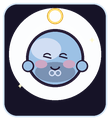
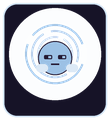
feat: 14정령 최종 캐릭터 디자인 — 캐논 컨셉별 고유 실루엣
'요소가 겹쳐보인다'는 피드백 반영 — 요정 리컬러를 폐기하고 각 정령을
캐논 designConcept 그대로 서로 다른 실루엣·모티프로 재작화:
- 루멘: 응원봉 빛구체 / 새록: 로딩스피너 후광+웅크림+로딩바 눈
- 빗장: 세로 관문+뒤틀린 보안문자+붉은 X / 울림: 이퀄라이저 바+물결
- 셈이: 正자 장부+커서 심장+다크서클 / 폴린: 자유낙하 유선형+심장빛
- 픽: 겹친 홀로그램 카드+봉투 / 영수: 감열지 리본+가격표 눈
- 찰나: 렌즈 머리+REC / 디원: 모래시계+플립 숫자판+D-1
- 네시: 이불 고치+폰빛 / 여백: 반투명+접힌 의자 / 습작: 미완성 스케치선
- 잔불: 재 담요+주황 불씨+감싼 손
gen_portraits.py에 정령별 절차 드로잉 함수 추가.

검증: 14 버스트 로드 확인, 세계 대사 렌더 정상, 오류 0.

Claude-Session: https://claude.ai/code/session_0112YYAr7MRb6U4X3aSsrdpR

Changed region(s): [[0.1909, 0.05, 0.8182, 0.75], [0.1636, 0.7, 0.2182, 0.75], [0.8182, 0.3, 0.8455, 0.35]]

diff --git a/tools/gen_portraits.py b/tools/gen_portraits.py
@@ -144,6 +144,179 @@ def antagonist_monopolist():
     circ(d,42,44,3.2,fill=RED); circ(d,68,44,3.2,fill=RED)
     return im
 
+# ══════════════════════════════════════════════════════════════════
+# 14정령 최종 디자인 — 캐논 designConcept 반영, 실루엣·모티프를 서로 겹치지 않게.
+# 각 함수는 110×120 프레임 버스트를 반환. 상단 2/3에 피사체(하단은 대사창).
+# ══════════════════════════════════════════════════════════════════
+def _mouth(d, cx, cy, w, kind='smile'):
+    if kind=='smile': d.arc([S(cx-w),S(cy-w*0.7),S(cx+w),S(cy+w*0.9)],15,165,fill=INK,width=S(1.7))
+    elif kind=='flat': d.line([(S(cx-w),S(cy)),(S(cx+w),S(cy))],fill=INK,width=S(1.6))
+    elif kind=='open': d.ellipse([S(cx-w*0.6),S(cy-w*0.5),S(cx+w*0.6),S(cy+w*0.9)],fill=INK)
+    elif kind=='frown': d.arc([S(cx-w),S(cy+w*0.5),S(cx+w),S(cy+w*1.5)],195,345,fill=INK,width=S(1.6))
+
+def spirit_lumen():  # 루멘 — 응원봉에 처음 불을 켠 빛(가이드). 밝은 빛구체 + 응원봉.
+    base=LIGHT; im,d=canvas(); frame(d,base)
+    glow(d,55,52,38,LIGHT)
+    circ(d,55,55,25,fill=mix(base,WHITE,0.35)); circ(d,55,55,25,outline=GOLD_D,ow=1.4)
+    ell(d,47,47,11,8,fill=WHITE)
+    d.line([(S(80),S(94)),(S(86),S(48))],fill=GOLD,width=S(2.4)); glow(d,86,44,11,LIGHT); star(d,86,43,6,2.4,5,fill=LIGHT,outline=GOLD_D)
+    eyes(d,48,62,53,'excited'); _mouth(d,55,62,5,'smile')
+    ell(d,43,59,5,3,fill=hx(0xff9db0)); ell(d,67,59,5,3,fill=hx(0xff9db0))
+    return im
+
+def spirit_saerok():  # 새록 — 로딩스피너 후광 겹침 + 웅크림 + 눈=로딩바 + F5 잔상 팔.
+    base=hx(0x9cc1e5); im,d=canvas(); frame(d,base)
+    for k,rr in enumerate((30,24,18)):  # 여러 겹 스피너 링(끊긴 호)
+        col=mix(base,WHITE,0.1+0.2*k)
+        d.arc([S(55-rr),S(54-rr),S(55+rr),S(54+rr)], 20+k*40, 200+k*40, fill=col, width=S(2.2))
+        d.arc([S(55-rr),S(54-rr),S(55+rr),S(54+rr)], 220+k*40, 340+k*40, fill=col, width=S(2.2))
+    circ(d,55,58,17,fill=base); circ(d,55,58,17,outline=INK,ow=1.2)  # 웅크린 몸
+    for ax in (40,70):  # F5 잔상 팔(반투명 겹침)
+        for j in range(3): circ(d,ax+j*2,68,4,fill=(base[0],base[1],base[2],90))
+    # 눈=차오르는 로딩바
+    for ex in (48,62):
+        box(d,ex-4,55,ex+4,59,1,outline=INK,ow=1); d.rectangle([S(ex-3),S(56),S(ex+0),S(58)],fill=INK)
+    _mouth(d,55,64,4,'flat')
+    return im
+
+def spirit_bitjang():  # 빗장 — 세로 문(門) + 얼굴=뒤틀린 보안문자 + 붉은 X 도장 + 개찰구 격자.
+    base=hx(0xff5d73); im,d=canvas(); frame(d,base)
+    box(d,36,30,74,98,3,fill=mix(base,INK,0.4),outline=base,ow=2)  # 문틀
+    d.line([(S(55),S(30)),(S(55),S(98))],fill=base,width=S(1.4))   # 여닫이 경계
+    for gy in range(40,92,10): d.line([(S(38),S(gy)),(S(72),S(gy))],fill=(base[0],base[1],base[2],90),width=S(1))  # 개찰구 격자
+    # 얼굴 칸 — 뒤틀린 보안문자(찌그러진 글리프)
+    box(d,42,44,68,64,2,fill=hx(0x1a0a10))
+    for i,gx in enumerate((46,53,60)):
+        d.line([(S(gx),S(48+((i*3)%4))),(S(gx+3),S(60-((i*2)%4)))],fill=mix(base,WHITE,0.5),width=S(1.4))
+        d.arc([S(gx-2),S(50),S(gx+3),S(58)],30,300,fill=mix(base,WHITE,0.4),width=S(1))
+    # 붉은 X 도장
+    d.line([(S(62),S(70)),(S(74),S(82))],fill=RED,width=S(2.4)); d.line([(S(74),S(70)),(S(62),S(82))],fill=RED,width=S(2.4))
+    return im
+
+def spirit_ulrim():  # 울림 — 이퀄라이저 세로바 몸 + 물결 번짐(윤곽선 없음).
+    base=hx(0x8fdcc2); im,d=canvas(); frame(d,base)
+    heights=[10,20,32,24,38,22,14]
+    for i,h in enumerate(heights):
+        x=32+i*6.5; col=mix(base,WHITE,0.1+0.1*(i%3))
+        box(d,x,70-h,x+4,72,1.5,fill=col)
+    for rr in (16,24,32):  # 물수제비 파문
+        d.ellipse([S(55-rr),S(60-rr*0.5),S(55+rr),S(60+rr*0.5)],outline=(base[0],base[1],base[2],70),width=S(1))
+    circ(d,48,44,3,fill=INK); circ(d,62,44,3,fill=INK)  # 눈(작게 떠 있음)
+    d.arc([S(50),S(48),S(60),S(55)],20,160,fill=INK,width=S(1.4))
+    return im
+
+def spirit_semi():  # 셈이 — 正자 격자 장부 몸 + 심장=깜빡 커서 + 다크서클 + 굽은 등.
+    base=hx(0xc9b8e8); im,d=canvas(); frame(d,base)
+    box(d,36,34,74,92,4,fill=mix(base,INK,0.25),outline=base,ow=1.5)  # 장부 몸
+    for r in range(4):  # 正자 바(정자 흘려)
+        y=42+r*12
+        for c in range(3):
+            x=42+c*10; d.line([(S(x),S(y)),(S(x),S(y+7))],fill=mix(base,WHITE,0.4),width=S(1)); d.line([(S(x-2),S(y+7)),(S(x+2),S(y+7))],fill=mix(base,WHITE,0.4),width=S(1))
+    box(d,50,58,60,66,1,fill=INK)  # 커서 심장(깜빡)
+    for ex in (46,64): circ(d,ex,46,2.6,fill=INK); ell(d,ex,50,4,2,fill=mix(base,hx(0x6a7fd6),0.5))  # 눈+다크서클
+    _mouth(d,55,52,3,'flat')
+    return im
+
+def spirit_pollin():  # 폴린 — 자유낙하 유선형 + 머리카락 위로 흩날림 + 심장빛 + 눈빛줄기.
+    base=hx(0xff8fa3); im,d=canvas(); frame(d,base)
+    d.polygon([(S(55),S(30)),(S(42),S(60)),(S(55),S(96)),(S(68),S(60))],fill=base,outline=mix(base,INK,0.3))  # 낙하 유선형 몸
+    for hx0 in (44,50,55,60,66):  # 위로 솟은 머리카락
+        d.line([(S(hx0),S(38)),(S(hx0+((hx0-55)//3)),S(24))],fill=mix(base,WHITE,0.4),width=S(1.6))
+    glow(d,55,58,12,hx(0xffd1dc)); circ(d,55,58,5,fill=WHITE)  # 심장빛
+    for ex in (49,61):  # 눈 + 빛줄기
+        circ(d,ex,50,2.4,fill=WHITE); d.line([(S(ex),S(50)),(S(ex+(ex-55)//2),S(44))],fill=(255,255,255,120),width=S(1.4))
+    return im
+
+def spirit_pick():  # 픽 — 겹친 홀로그램 카드 몸 + 안 뜯은 봉투 + 각진 실루엣.
+    base=hx(0x9a8fd6); im,d=canvas(); frame(d,base)
+    for k,(ox,oy) in enumerate(((-8,-6),(0,0),(8,6))):  # 겹친 카드 3장
+        col=mix(base,WHITE,0.15*k)
+        box(d,42+ox,36+oy,68+ox,80+oy,3,fill=col,outline=mix(base,WHITE,0.5),ow=1)
+        d.line([(S(44+ox),S(40+oy)),(S(66+ox),S(74+oy))],fill=(255,255,255,70),width=S(1))  # 홀로 사선
+    box(d,30,66,44,86,2,fill=mix(base,INK,0.3),outline=base,ow=1)  # 안 뜯은 봉투
+    circ(d,52,52,2.6,fill=INK); circ(d,60,55,2.6,fill=INK)  # 각도마다 갈리는 눈(어긋나게)
+    return im
+
+def spirit_yeongsu():  # 영수 — 감열지 리본 몸(하반신 종이) + 눈=빨간 가격표 + 다 긁은 카드.
+    base=hx(0xffd66b); im,d=canvas(); frame(d,base)
+    box(d,42,32,68,60,3,fill=mix(base,WHITE,0.2),outline=mix(base,INK,0.3),ow=1.5)  # 상체(프린터 헤드)
+    # 말려 나오는 감열지 리본(하반신)
+    pts=[(46,60),(44,72),(52,80),(48,92),(58,96),(64,84),(60,72),(66,64)]
+    d.polygon([ (S(x),S(y)) for x,y in pts ], fill=mix(base,WHITE,0.35), outline=mix(base,INK,0.2))
+    for ry in range(64,94,6): d.line([(S(46),S(ry)),(S(64),S(ry))],fill=(base[0],base[1],base[2],70),width=S(1))  # 인쇄줄
+    for ex in (48,62): box(d,ex-4,44,ex+4,50,1,fill=RED); d.line([(S(ex-3),S(47)),(S(ex+3),S(47))],fill=WHITE,width=S(1))  # 빨간 가격표 눈
+    box(d,30,66,42,74,1,fill=mix(base,INK,0.4))  # 다 긁은 카드
+    return im
+
+def spirit_chalna():  # 찰나 — 카메라/렌즈 머리 + 버퍼링 깜빡 몸 + REC 빨간 점 + 프레임 잔상.
+    base=hx(0xff8a5d); im,d=canvas(); frame(d,base)
+    for j in range(3): box(d,40+j*2,58,72+j*2,92,4,fill=(base[0],base[1],base[2],80))  # 프레임 잔상 몸
+    box(d,40,58,72,92,4,fill=base,outline=mix(base,INK,0.3),ow=1.5)
+    circ(d,55,48,16,fill=hx(0x241a33),outline=base,ow=2)  # 렌즈 머리
+    circ(d,55,48,10,fill=mix(base,INK,0.5)); circ(d,55,48,5,fill=mix(base,WHITE,0.3)); circ(d,51,44,2,fill=WHITE)
+    circ(d,66,36,3,fill=RED); glow(d,66,36,6,RED)  # REC 점
+    for bx in range(46,66,6): d.line([(S(bx),S(70)),(S(bx),S(84))],fill=(255,255,255,60),width=S(2))  # 버퍼링 바
+    return im
+
+def spirit_diwon():  # 디원 — 플립 숫자판 몸 + D-1 배지 + 모래시계 세로 실루엣.
+    base=hx(0xf0c98a); im,d=canvas(); frame(d,base)
+    d.polygon([(S(40),S(32)),(S(70),S(32)),(S(58),S(60)),(S(70),S(90)),(S(40),S(90)),(S(52),S(60))],fill=base,outline=mix(base,INK,0.3))  # 모래시계 실루엣
+    for fy in (40,50,70,80):  # 플립 숫자판 칸
+        box(d,46,fy,64,fy+7,1,fill=mix(base,INK,0.25),outline=mix(base,WHITE,0.4),ow=1)
+        d.line([(S(46),S(fy+3.5)),(S(64),S(fy+3.5))],fill=INK,width=S(1))
+    box(d,44,62,66,72,2,fill=RED)  # D-1 배지
+    d.line([(S(47),S(67)),(S(51),S(67))],fill=WHITE,width=S(1.6))  # 'D'
+    d.arc([S(47),S(64),S(52),S(70)],270,90,fill=WHITE,width=S(1.4))
+    d.line([(S(55),S(67)),(S(58),S(67))],fill=WHITE,width=S(1.4))  # '-'
+    d.line([(S(61),S(64)),(S(61),S(70)),(S(63),S(70))],fill=WHITE,width=S(1.4))  # '1'
+    circ(d,50,45,2,fill=INK); circ(d,60,45,2,fill=INK)
+    return im
+
+def spirit_nesi():  # 네시 — 이불 고치 둥근 실루엣 + 폰빛 얼굴(유일 광원) + 4:44 + 다크서클.
+    base=hx(0x6a7fd6); im,d=canvas(); frame(d,base)
+    circ(d,55,60,30,fill=mix(base,INK,0.35),outline=base,ow=1.5)  # 이불 고치(둥글게)
+    circ(d,55,60,30,outline=(base[0],base[1],base[2],80),ow=3)
+    box(d,46,50,64,68,3,fill=hx(0x1a2036))  # 얼굴 그늘
+    glow(d,55,58,12,hx(0xbfe0ff)); box(d,50,54,60,64,1,fill=hx(0xbfe0ff))  # 폰빛(유일 광원)
+    for ex in (51,59): d.line([(S(ex-2),S(58)),(S(ex+2),S(58))],fill=INK,width=S(1.4)); ell(d,ex,61,3,1.6,fill=mix(base,INK,0.4))  # 감은 눈+다크서클
+    # 떠다니는 '4:44' — 안 넘어가는 시각(작은 도형으로)
+    for i,fx in enumerate((72,78,84)):
+        d.line([(S(fx),S(38)),(S(fx),S(43))],fill=mix(base,WHITE,0.5),width=S(1.2))
+    circ(d,75,42,0.8,fill=mix(base,WHITE,0.5))
+    return im
+
+def spirit_yeobaek():  # 여백 — 반투명(속 비침) + 접힌 객석 의자 어깨 + 빈 장갑 + 바랜 파스텔.
+    base=hx(0xbca9e0); im,d=canvas(); frame(d,base)
+    faded=mix(base,PANEL,0.35)
+    d.polygon([(S(42),S(40)),(S(68),S(40)),(S(72),S(92)),(S(38),S(92))],fill=(faded[0],faded[1],faded[2],150),outline=base)  # 반투명 몸
+    box(d,44,36,52,54,2,fill=(base[0],base[1],base[2],120))  # 접히는 의자 어깨(좌)
+    box(d,58,36,66,54,2,fill=(base[0],base[1],base[2],120))
+    d.line([(S(55),S(50)),(S(55),S(90))],fill=(base[0],base[1],base[2],80),width=S(1))  # 속 비침 경계
+    box(d,30,70,40,82,3,outline=base,ow=1.4)  # 빈 장갑 한 짝(윤곽만)
+    for ex in (49,61): d.arc([S(ex-3),S(50),S(ex+3),S(56)],185,355,fill=INK,width=S(1.4))  # 잔잔한 눈
+    return im
+
+def spirit_seupjak():  # 습작 — 미완성 스케치(겹친 선+지우개 자국) + 덜 마른 잉크 손 + 남색/살구.
+    base=hx(0x8fb0f0); apr=hx(0xf6c9a0); im,d=canvas(); frame(d,base)
+    # 겹친 밑그림 선(실루엣이 흔들림)
+    for off in (-3,0,3):
+        d.line([(S(46+off),S(36)),(S(42+off),S(70)),(S(52+off),S(92))],fill=(base[0],base[1],base[2],120 if off else 220),width=S(1.6),joint='curve')
+        d.line([(S(64+off),S(36)),(S(68+off),S(70)),(S(58+off),S(92))],fill=(base[0],base[1],base[2],120 if off else 220),width=S(1.6),joint='curve')
+    d.arc([S(42),S(38),S(68),S(64)],200,340,fill=base,width=S(1.6))  # 머리 윤곽(미완)
+    for ex in (50,60): d.line([(S(ex-3),S(52)),(S(ex+3),S(52))],fill=INK,width=S(1.4))  # 눈=아직 선 (특히 눈이 안 됨)
+    d.ellipse([S(60),S(78),S(70),S(88)],fill=(apr[0],apr[1],apr[2],150))  # 덜 마른 잉크 손(번짐)
+    for gx,gy in ((40,44),(72,66),(44,84)): circ(d,gx,gy,1.2,fill=(base[0],base[1],base[2],120))  # 지우개 가루
+    return im
+
+def spirit_janbul():  # 잔불 — 재 뒤집어쓴 실루엣 + 주황 불씨 한 점 + 담요 + 감싼 손.
+    base=hx(0xffb07a); ash=hx(0x6b6470); im,d=canvas(); frame(d,base)
+    d.polygon([(S(55),S(34)),(S(36),S(58)),(S(40),S(92)),(S(70),S(92)),(S(74),S(58))],fill=ash,outline=mix(ash,INK,0.3))  # 재 담요 실루엣
+    for sx,sy in ((44,50),(66,54),(50,74),(64,80)): circ(d,sx,sy,1.4,fill=mix(ash,WHITE,0.3))  # 재 얼룩
+    glow(d,55,66,14,base); circ(d,55,66,6,fill=base); circ(d,55,66,3,fill=hx(0xfff2c9))  # 불씨 한 점
+    for ax in (44,66): d.arc([S(ax-6),S(62),S(ax+6),S(76)],250,470,fill=ash,width=S(2.4))  # 감싼 두 손
+    for ex in (49,61): circ(d,ex,50,2,fill=mix(base,WHITE,0.3))  # 재 속 눈(은은)
+    return im
+
 def player():
     im,d=canvas(); frame(d, hx(0xf1c7d2))
     HOOD=hx(0x35304f); HOODD=hx(0x24203a); FACE=hx(0x2a2438)
@@ -161,23 +334,22 @@ def player():
 def out(im,name): im.resize((W,H),Image.LANCZOS).save(os.path.join(OUT,name+'.png'))
 
 def main():
-    # 14정령 v2 — 루멘(가이드, id 'bongi') + 팬덤 경험 정령 13. 색·왕관·엠블럼·표정으로 구별.
-    # (임시 플레이스홀더 버스트: 캐논의 상세 디자인 컨셉[로딩 스피너/관문/이퀄라이저 등]은 후속 아트 과제.)
+    # 14정령 최종 디자인 — 캐논 designConcept 반영, 실루엣·모티프 서로 겹치지 않게.
     guards={
-        'pt_g_bongi':    fairy(0xfdf6c9,'star5','wand','open'),     # 루멘(가이드)
-        'pt_g_pollin':   fairy(0xff8fa3,'heart','heart','excited'),  # 입덕·낙하
-        'pt_g_pick':     fairy(0x9a8fd6,'spark6','rings','gentle'),  # 포카·뽑기
-        'pt_g_saerok':   fairy(0x9cc1e5,'ring','rings','calm'),      # 새로고침·대기열
-        'pt_g_bitjang':  fairy(0xff5d73,'star5','sun','open'),       # 보안문자·인증
-        'pt_g_ulrim':    fairy(0x8fdcc2,'spark6','sun','excited'),   # 떼창·스밍
-        'pt_g_semi':     fairy(0xc9b8e8,'ring','rings','calm'),      # 총공·투표
-        'pt_g_yeongsu':  fairy(0xffd66b,'heart','sun','open'),       # 굿즈·텅장
-        'pt_g_chalna':   fairy(0xff8a5d,'star5','wand','excited'),   # 직캠·기록
-        'pt_g_diwon':    fairy(0xf0c98a,'spark6','wand','open'),     # 컴백·기다림
-        'pt_g_nesi':     fairy(0x6a7fd6,'ring','sun','calm'),        # 새벽·불면
-        'pt_g_yeobaek':  fairy(0xbca9e0,'ring','heart','gentle'),    # 최애상실·졸업
-        'pt_g_seupjak':  fairy(0x8fb0f0,'spark6','rings','gentle'),  # 팬창작·2차
-        'pt_g_janbul':   fairy(0xffb07a,'heart','sun','calm'),       # 버티기·현타
+        'pt_g_bongi':    spirit_lumen(),    # 루멘(가이드) — 응원봉 빛구체
+        'pt_g_pollin':   spirit_pollin(),   # 입덕·낙하 — 자유낙하 유선형
+        'pt_g_pick':     spirit_pick(),     # 포카·뽑기 — 겹친 홀로그램 카드
+        'pt_g_saerok':   spirit_saerok(),   # 새로고침·대기열 — 로딩스피너 후광
+        'pt_g_bitjang':  spirit_bitjang(),  # 보안문자·인증 — 세로 관문+X
+        'pt_g_ulrim':    spirit_ulrim(),    # 떼창·스밍 — 이퀄라이저+물결
+        'pt_g_semi':     spirit_semi(),     # 총공·투표 — 正자 장부+커서 심장
+        'pt_g_yeongsu':  spirit_yeongsu(),  # 굿즈·텅장 — 감열지 리본
+        'pt_g_chalna':   spirit_chalna(),   # 직캠·기록 — 렌즈 머리+REC
+        'pt_g_diwon':    spirit_diwon(),    # 컴백·기다림 — 플립 숫자판+D-1
+        'pt_g_nesi':     spirit_nesi(),     # 새벽·불면 — 이불 고치+폰빛
+        'pt_g_yeobaek':  spirit_yeobaek(),  # 최애상실·졸업 — 반투명+접힌 의자
+        'pt_g_seupjak':  spirit_seupjak(),  # 팬창작·2차 — 미완성 스케치
+        'pt_g_janbul':   spirit_janbul(),   # 버티기·현타 — 재+불씨
     }
     others={'pt_noise':antagonist_noise(),'pt_server':antagonist_server(),
             'pt_monopolist':antagonist_monopolist(),'pt_player':player()}
